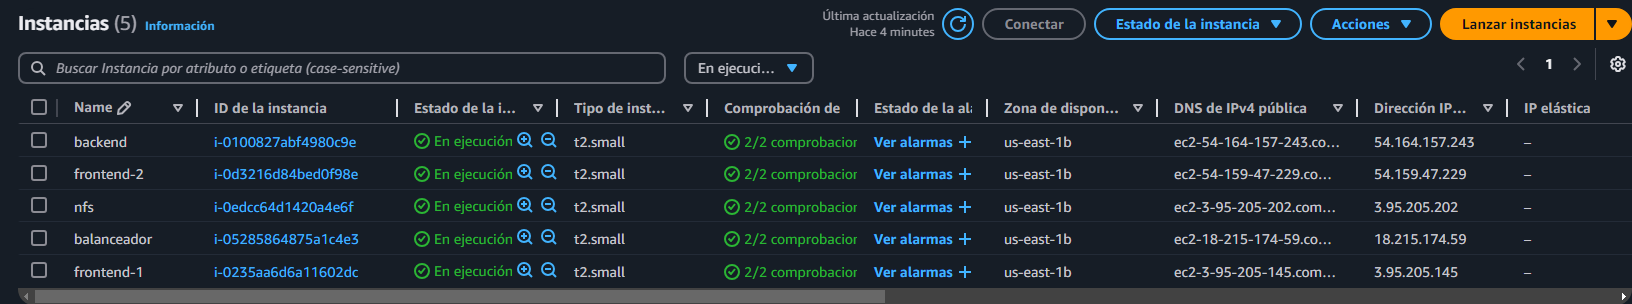
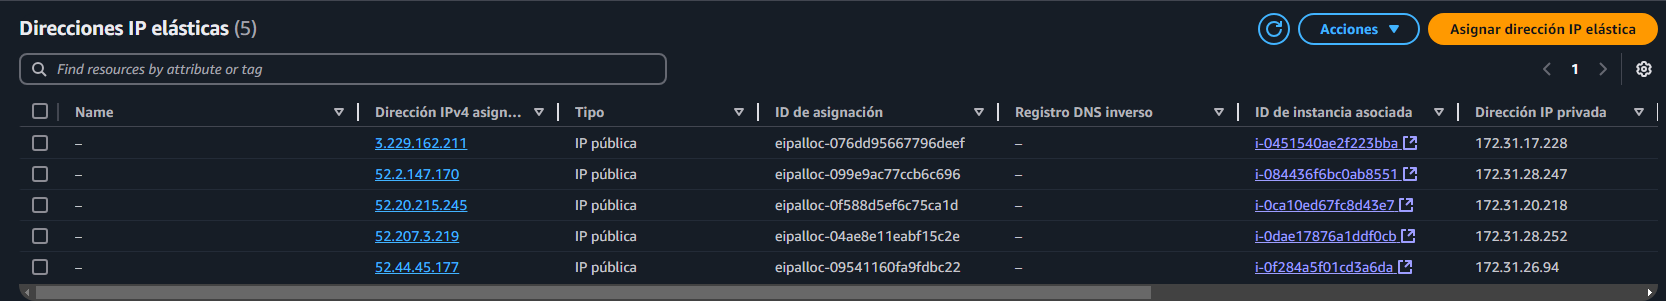
cambios

diff --git a/README.md b/README.md
@@ -213,8 +213,13 @@ for i in {1..2}; do
                 --query "Reservations[*].Instances[*].InstanceId" \
                 --output text)
 
+  ELASTIC_IP=$(aws ec2 describe-addresses \
+               --filters "Name=public-ip,Values=${ELASTIC_IP_FRONTEND[i]}" \
+               --query "Addresses[0].AllocationId" \
+               --output text)
+
   aws ec2 disassociate-address --public-ip ${ELASTIC_IP_FRONTEND[i]}
-  aws ec2 release-address --public-ip ${ELASTIC_IP_FRONTEND[i]}
+  aws ec2 release-address --allocation-id $ELASTIC_IP
   aws ec2 terminate-instances --instance-ids $INSTANCE_ID
   aws ec2 wait instance-terminated --instance-ids $INSTANCE_ID
 done
@@ -226,8 +231,13 @@ INSTANCE_ID_BACKEND=$(aws ec2 describe-instances \
                       --query "Reservations[*].Instances[*].InstanceId" \
                       --output text)
 
+ELASTIC_IP_BACKEND_ID=$(aws ec2 describe-addresses \
+                       --filters "Name=public-ip,Values=$ELASTIC_IP_BACKEND" \
+                       --query "Addresses[0].AllocationId" \
+                       --output text)
+
 aws ec2 disassociate-address --public-ip $ELASTIC_IP_BACKEND
-aws ec2 release-address --public-ip $ELASTIC_IP_BACKEND
+aws ec2 release-address --allocation-id $ELASTIC_IP_BACKEND_ID
 aws ec2 terminate-instances --instance-ids $INSTANCE_ID_BACKEND
 aws ec2 wait instance-terminated --instance-ids $INSTANCE_ID_BACKEND
 
@@ -238,8 +248,13 @@ INSTANCE_ID_BALANCEADOR=$(aws ec2 describe-instances \
                           --query "Reservations[*].Instances[*].InstanceId" \
                           --output text)
 
+ELASTIC_IP_BALANCEADOR_ID=$(aws ec2 describe-addresses \
+                           --filters "Name=public-ip,Values=$ELASTIC_IP_BALANCEADOR" \
+                           --query "Addresses[0].AllocationId" \
+                           --output text)
+
 aws ec2 disassociate-address --public-ip $ELASTIC_IP_BALANCEADOR
-aws ec2 release-address --public-ip $ELASTIC_IP_BALANCEADOR
+aws ec2 release-address --allocation-id $ELASTIC_IP_BALANCEADOR_ID
 aws ec2 terminate-instances --instance-ids $INSTANCE_ID_BALANCEADOR
 aws ec2 wait instance-terminated --instance-ids $INSTANCE_ID_BALANCEADOR
 
@@ -250,8 +265,13 @@ INSTANCE_ID_NFS=$(aws ec2 describe-instances \
                   --query "Reservations[*].Instances[*].InstanceId" \
                   --output text)
 
+ELASTIC_IP_NFS_ID=$(aws ec2 describe-addresses \
+                   --filters "Name=public-ip,Values=$ELASTIC_IP_NFS" \
+                   --query "Addresses[0].AllocationId" \
+                   --output text)
+
 aws ec2 disassociate-address --public-ip $ELASTIC_IP_NFS
-aws ec2 release-address --public-ip $ELASTIC_IP_NFS
+aws ec2 release-address --allocation-id $ELASTIC_IP_NFS_ID
 aws ec2 terminate-instances --instance-ids $INSTANCE_ID_NFS
 aws ec2 wait instance-terminated --instance-ids $INSTANCE_ID_NFS
 
